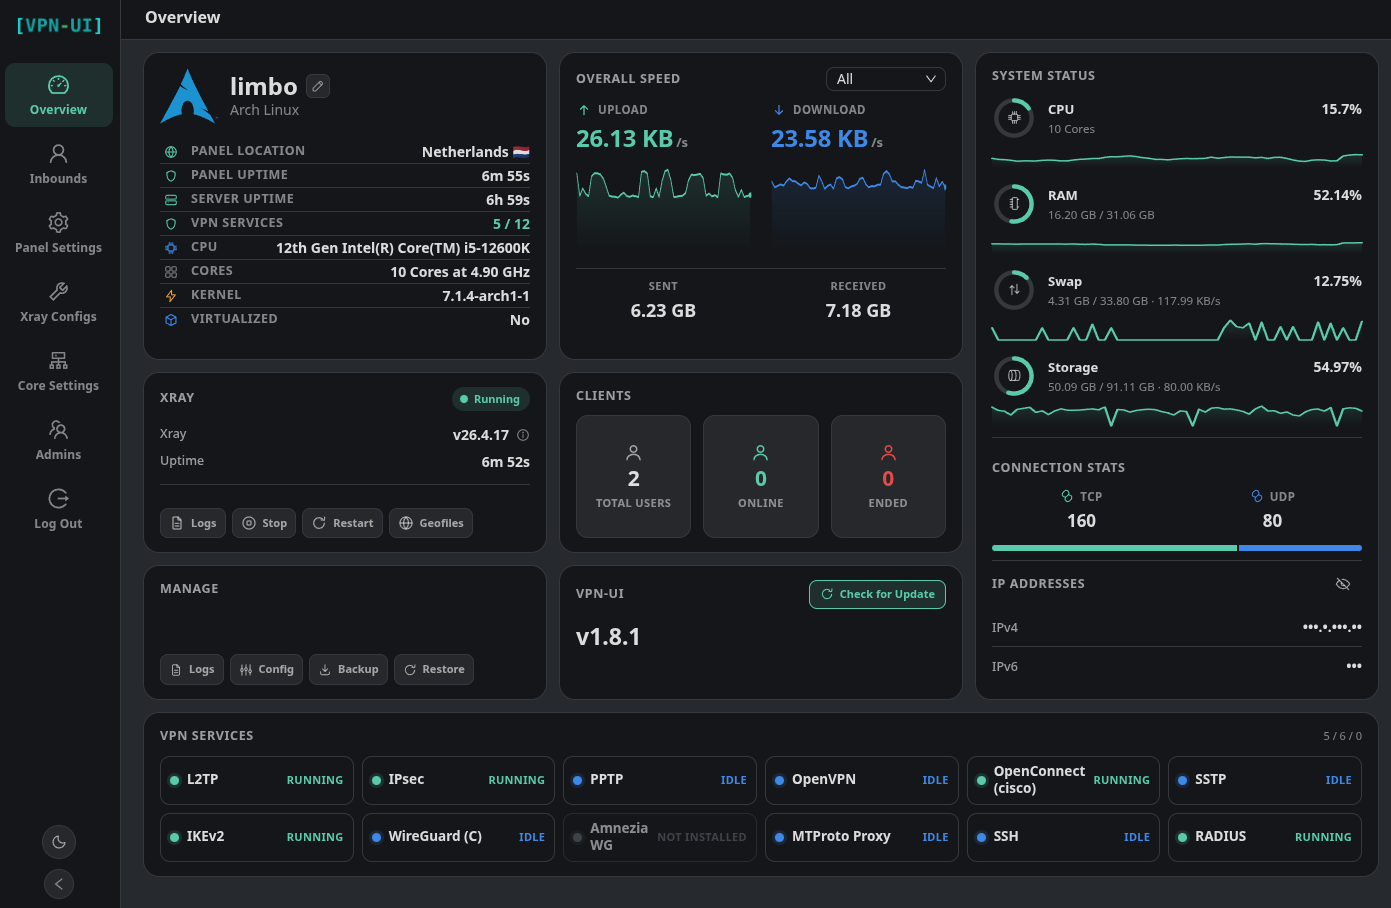
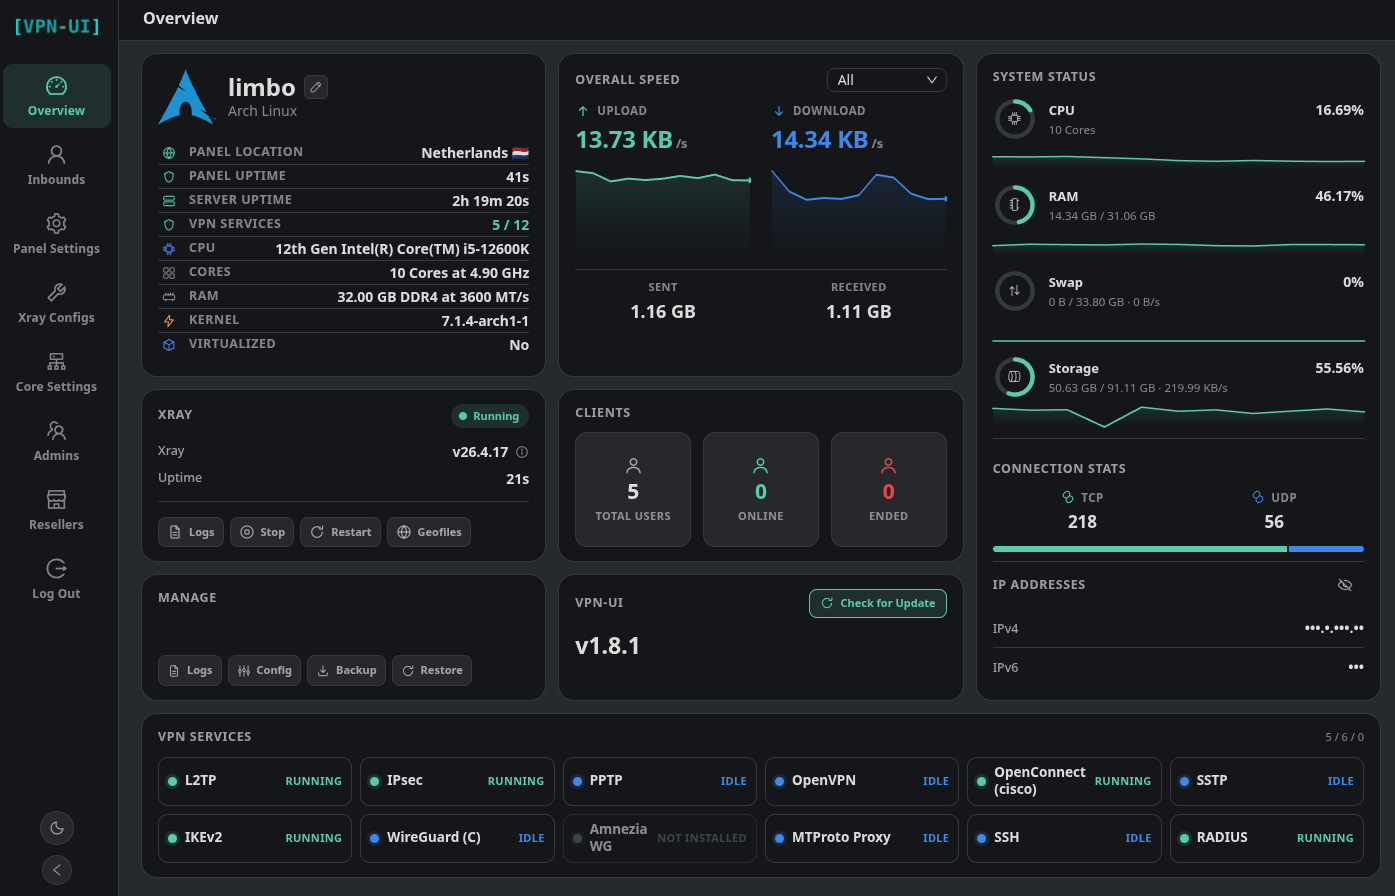
release: v1.8.2
Multi-Admin and Reseller accounts join the feature list in all seven
READMEs, and the XHTTP Object line now covers Inbound as well as Outbound.
Multi-Admin shipped in v1.8.1 and Reseller in this one; neither had ever
been written down outside the release notes.

Overview screenshot refreshed.

diff --git a/README.md b/README.md
@@ -24,9 +24,11 @@ This project is an enhanced version of the **[3X-UI](https://github.com/MHSanaei
 
 ## New Features
 
+- **Multi-Admin** with per-inbound access, so each admin only sees the inbounds you assign it
+- **Reseller** accounts with a metered traffic balance an admin recharges, spent only on the inbounds it was given
 - **Client to Client** support, even as **Cross Inbound** (an internal connection between an L2TP user and an OpenVPN user)
 - Added **AES-256-GCM** and **AES-128-GCM** **Encryption** to the **Shadowsocks** protocol
-- Support for **XHTTP Object** in **Outbound**
+- Support for **XHTTP Object** in **Inbound** and **Outbound**
 - Automatic installation script for **[WARP-CLI](https://github.com/Sir-MmD/warp-cli)** (Cloudflare's official version)
 - A [patched **Xray-core**](https://github.com/Sir-MmD/Xray-core) that fixes the "Unsupported Cipher" error in the **Shadowsocks** protocol
 - Bundling all files (**Geofile**, **Xray-core**, and **Backend** cores) into a single binary

diff --git a/README_AR.md b/README_AR.md
@@ -24,9 +24,11 @@
 
 ## الميزات الجديدة
 
+- **تعدد المشرفين** بصلاحية لكل Inbound، فكل مشرف ما يشوفش غير الـ Inbounds اللي خصصتهالوه
+- حسابات **الموزّعين** برصيد ترافيك محسوب يشحنه المشرف، ما يتصرفش غير على الـ Inbounds اللي اتدّت له
 - إمكانية **Client to Client** حتى بصيغة **Cross Inbound** (اتصال داخلي بين مستخدم L2TP ومستخدم OpenVPN)
 - إضافة **Encryption** من نوعَي **AES-256-GCM** و **AES-128-GCM** إلى بروتوكول **Shadowsocks**
-- دعم **XHTTP Object** في **Outbound**
+- دعم **XHTTP Object** في **Inbound** و **Outbound**
 - سكربت التثبيت التلقائي لـ **[WARP-CLI](https://github.com/Sir-MmD/warp-cli)** (النسخة الرسمية من Cloudflare)
 - نواة [**Xray-core** المُعدَّلة](https://github.com/Sir-MmD/Xray-core) لإصلاح خطأ «Unsupported Cipher» في بروتوكول **Shadowsocks**
 - تجميع جميع الملفات (Geofile و Xray-core ونوى الـ Backend) داخل ملف ثنائي (binary) واحد

diff --git a/README_ES.md b/README_ES.md
@@ -24,9 +24,11 @@ Este proyecto es una versión mejorada del panel **[3X-UI](https://github.com/MH
 
 ## Nuevas funcionalidades
 
+- **Multiadministrador** con acceso por Inbound: cada administrador solo ve los Inbounds que le asignes
+- Cuentas de **Revendedor** con un saldo de tráfico medido que recarga un administrador, gastable solo en los Inbounds que se le hayan dado
 - Función **Client to Client**, incluso como **Cross Inbound** (conexión interna de un usuario L2TP con un usuario OpenVPN)
 - Incorporación de los **Encryption** **AES-256-GCM** y **AES-128-GCM** al protocolo **Shadowsocks**
-- Soporte para **XHTTP Object** en el **Outbound**
+- Soporte para **XHTTP Object** en el **Inbound** y el **Outbound**
 - Script de instalación automática de **[WARP-CLI](https://github.com/Sir-MmD/warp-cli)** (la versión oficial de Cloudflare)
 - Núcleo [**Xray-core** parcheado](https://github.com/Sir-MmD/Xray-core) para solucionar el error «Unsupported Cipher» en el protocolo **Shadowsocks**
 - Empaquetado de todos los archivos (Geofile, Xray-core y los núcleos del Backend) dentro de un único archivo binario

diff --git a/README_FA.md b/README_FA.md
@@ -24,9 +24,11 @@
 
 ## امکانات جدید
 
+- **چند مدیره** با دسترسی جداگانه به هر Inbound، هر مدیر فقط Inbound هایی را میبیند که به او دادهاید
+- حسابهای **نماینده** با اعتبار ترافیک که مدیر آن را شارژ میکند و فقط روی Inbound های دادهشده خرج میشود
 - قابلیت **Client to Client** حتی بصورت **Cross Inbound** (اتصال داخلی کاربر L2TP به کاربر OpenVPN)
 - اضافهشدن **Encryption** های **AES-256-GCM** و **AES-128-GCM** به پروتکل **Shadowsocks**
-- پشتیبانی از **XHTTP Object** در **Outbound**
+- پشتیبانی از **XHTTP Object** در **Inbound** و **Outbound**
 - اسکریپت نصب خودکار **[WARP-CLI](https://github.com/Sir-MmD/warp-cli)** (نسخهی رسمی Cloudflare)
 - هستهی [**Xray-core** پچشده](https://github.com/Sir-MmD/Xray-core) برای رفع خطای «Unsupported Cipher» در پروتکل **Shadowsocks**
 - باندلشدن همهی فایلها (Geofile، Xray-core و هستههای Backend) داخل یک فایل باینریِ واحد

diff --git a/README_RU.md b/README_RU.md
@@ -24,9 +24,11 @@
 
 ## Новые возможности
 
+- **Мультиадмин** с доступом к отдельным Inbound: каждый администратор видит только назначенные ему
+- Аккаунты **реселлеров** с лимитом трафика, который пополняет администратор и который тратится только на выданные Inbound
 - Функция **Client to Client**, даже в режиме **Cross Inbound** (внутреннее соединение пользователя L2TP с пользователем OpenVPN)
 - Добавление **Encryption** **AES-256-GCM** и **AES-128-GCM** в протокол **Shadowsocks**
-- Поддержка **XHTTP Object** в **Outbound**
+- Поддержка **XHTTP Object** в **Inbound** и **Outbound**
 - Скрипт автоматической установки **[WARP-CLI](https://github.com/Sir-MmD/warp-cli)** (официальная версия Cloudflare)
 - [Пропатченное ядро **Xray-core**](https://github.com/Sir-MmD/Xray-core) для устранения ошибки «Unsupported Cipher» в протоколе **Shadowsocks**
 - Объединение всех файлов (Geofile, Xray-core и ядер Backend) в один единый бинарный файл

diff --git a/README_TR.md b/README_TR.md
@@ -24,9 +24,11 @@ Bu proje, **[3X-UI](https://github.com/MHSanaei/3x-ui)** panelinin (2.9.3 sürü
 
 ## Yeni Özellikler
 
+- Inbound bazlı erişimle **Çoklu Yönetici**: her yönetici yalnızca kendisine atadığınız Inbound'ları görür
+- Yöneticinin yüklediği ölçülü trafik bakiyesiyle **Bayi** hesapları, yalnızca kendisine verilen Inbound'larda harcanır
 - **Client to Client** özelliği, hatta **Cross Inbound** biçiminde bile (bir L2TP kullanıcısının bir OpenVPN kullanıcısına dahili bağlantısı)
 - **Shadowsocks** protokolüne **AES-256-GCM** ve **AES-128-GCM** **Encryption** yöntemlerinin eklenmesi
-- **Outbound** içinde **XHTTP Object** desteği
+- **Inbound** ve **Outbound** içinde **XHTTP Object** desteği
 - **[WARP-CLI](https://github.com/Sir-MmD/warp-cli)** (Cloudflare'in resmi sürümü) için otomatik kurulum betiği
 - **Shadowsocks** protokolündeki «Unsupported Cipher» hatasını gidermek için [yamalanmış **Xray-core**](https://github.com/Sir-MmD/Xray-core) çekirdeği
 - Tüm dosyaların (Geofile, Xray-core ve Backend çekirdekleri) tek bir binary dosyası içinde paketlenmesi

diff --git a/README_ZH.md b/README_ZH.md
@@ -24,9 +24,11 @@
 
 ## 新增功能
 
+- **多管理员**，按 Inbound 授权，每个管理员只能看到分配给他的 Inbound
+- **分销商**账户，流量额度由管理员充值计量，且只能消耗在分配给它的 Inbound 上
 - 支持 **Client to Client** 功能，甚至可以实现 **Cross Inbound**（L2TP 用户与 OpenVPN 用户之间的内部互联）
 - 为 **Shadowsocks** 协议新增了 **AES-256-GCM** 和 **AES-128-GCM** 两种 **Encryption**
-- 在 **Outbound** 中支持 **XHTTP Object**
+- 在 **Inbound** 和 **Outbound** 中支持 **XHTTP Object**
 - **[WARP-CLI](https://github.com/Sir-MmD/warp-cli)**（Cloudflare 官方版本）自动安装脚本
 - 经过[补丁修复的 **Xray-core**](https://github.com/Sir-MmD/Xray-core) 内核，用于修复 **Shadowsocks** 协议中的「Unsupported Cipher」错误
 - 将所有文件（Geofile、Xray-core 以及 Backend 内核）打包进单个二进制文件中